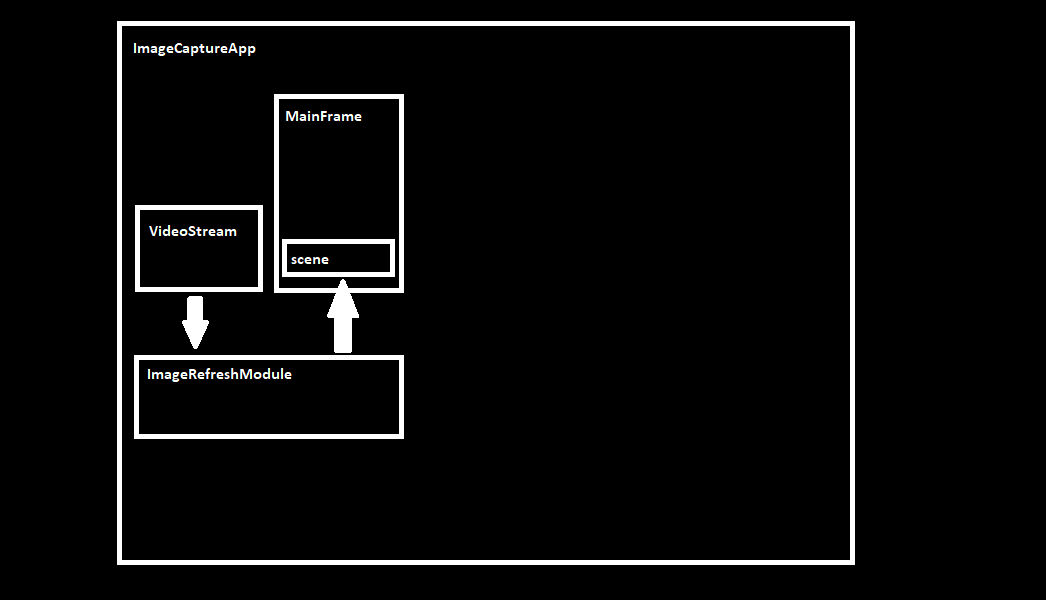
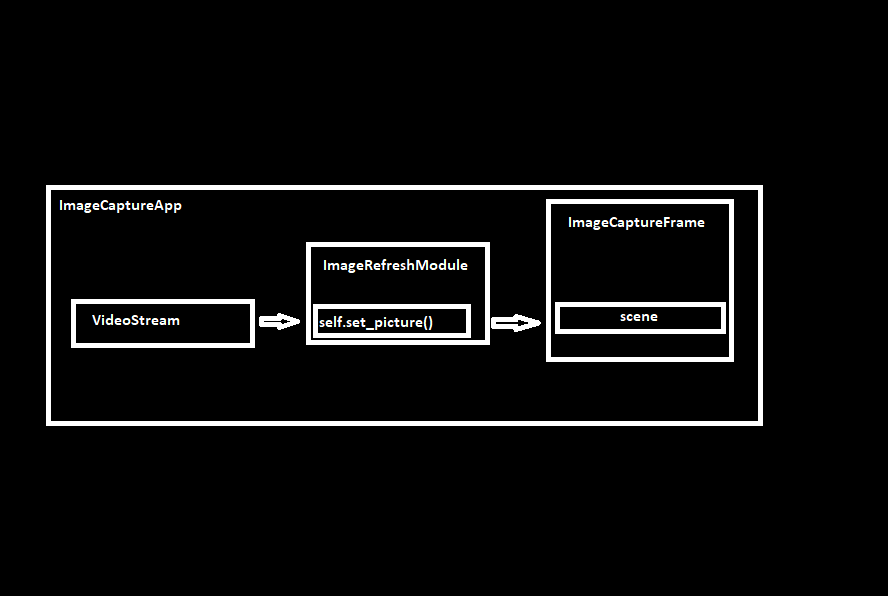
Minor commit. Added basic image saving method. Concept to be reworked in future.

Changed region(s): [[0.0304, 0.0302, 0.8818, 0.9664]]

diff --git a/gui/frames/ImageCaptureFrame.py b/gui/frames/ImageCaptureFrame.py
@@ -1,4 +1,6 @@
+from distutils.sysconfig import customize_compiler
 import math
+from PyQt5 import QtGui
 import cv2
 from PyQt5.QtCore import Qt
 from PyQt5.QtGui import QColor, QPainterPath, QPen, QPixmap, QImage
@@ -53,10 +55,23 @@ class NIPGraphicScene(QGraphicsScene):
         painter.drawPath(top_triangle)
 
 
-class ImageCaptureFrame(QMainWindow):
-    def __init__(self, parent=None, window_name=None):
-        super().__init__()
+class SaveImageButton(QPushButton):
+    def __init__(self,  custom_signals, pixmap_item):
+        super(SaveImageButton, self).__init__(text="Click Me")
+        self.custom_signals = custom_signals
+        self.pixmap_item = pixmap_item
+        
+    def mousePressEvent(self, e) -> None:
+        super().mousePressEvent(e)
+        self.pixmap_item.pixmap().save("test.jpg")
+        # self.custom_signals.save_picture.emit(self.pixmap)
+        print("Save Button clicked!")
 
+
+class ImageCaptureFrame(QMainWindow):
+    def __init__(self, parent=None, custom_signals=None):
+        super().__init__()
+        self.custom_signals = custom_signals
         self.setWindowTitle("QGraphicsView Example")
         self.setGeometry(0, 0, 600, 400)  # Set a larger initial window size
 
@@ -65,34 +80,31 @@ class ImageCaptureFrame(QMainWindow):
         layout = QGridLayout(self.central_widget)
 
         self.graphics_view = QGraphicsView()
-        self.scene = QGraphicsScene()
-
         self.graphics_view.setSceneRect(0, 0, 250, 250)  # Limit scene size to 250x250
-        
-        # Load an image using QPixmap
-        pixmap = QPixmap("img\\Debugempty.png")  # Replace with the actual image path
-        pixmap = pixmap.scaled(250, 250, Qt.KeepAspectRatio, Qt.SmoothTransformation) 
-        self.pixmap_item = QGraphicsPixmapItem(pixmap)
-        self.scene.addItem(self.pixmap_item)
-
-        self.scene.addRect(QRectF(0, 0, 250, 250))
-        self.graphics_view.setScene(self.scene)
-
         layout.addWidget(self.graphics_view, 0, 1, Qt.AlignTop | Qt.AlignLeft)  # Align in upper-left corner
         
+        self.scene = QGraphicsScene()
+        self.scene.addRect(QRectF(0, 0, 250, 250))
+        self.graphics_view.setScene(self.scene)
+        
+        pixmap = QPixmap("img\\Debugempty.png")
+        self.pixmap_item = QGraphicsPixmapItem(pixmap)
+        self.sized_pixmap = QGraphicsPixmapItem(pixmap.scaled(250, 250, Qt.KeepAspectRatio, Qt.SmoothTransformation))
+        self.scene.addItem(self.sized_pixmap)
+        
+        # Side Layout setup
         side_layout = QVBoxLayout()
+        layout.addLayout(side_layout, 0, 1, Qt.AlignTop | Qt.AlignCenter)  # Align in upper-right corner
 
         # Dropdown Menu
         self.dropdown = QComboBox()
-        self.dropdown.addItem("Option 1")
-        self.dropdown.addItem("Option 2")
+        self.dropdown.addItem("Camera 1")
+        self.dropdown.addItem("Camera 2")
         side_layout.addWidget(self.dropdown)
 
         # Button
-        self.button = QPushButton("Click Me")
+        self.button = SaveImageButton(custom_signals=self.custom_signals, pixmap_item=self.pixmap_item)
         side_layout.addWidget(self.button)
-
-        layout.addLayout(side_layout, 0, 1, Qt.AlignTop | Qt.AlignCenter)  # Align in upper-right corner
 
     def set_picture(self, picture):
         # picture = cv2.cvtColor(picture, cv2.COLOR_BGR2RGB)
@@ -102,11 +114,9 @@ class ImageCaptureFrame(QMainWindow):
         
         # create qpixmap from qimage
         pixmap = QPixmap.fromImage(qimage)
-        # pixmap = pixmap.scaled(250, 250, Qt.KeepAspectRatio, Qt.SmoothTransformation) 
+        self.pixmap_item.setPixmap(pixmap)
+        self.sized_pixmap.setPixmap(pixmap.scaled(250, 250, Qt.KeepAspectRatio, Qt.SmoothTransformation))
         # pixmap_item = QGraphicsPixmapItem(pixmap)
-        self.pixmap_item.setPixmap(pixmap) 
+        # self.sized_pixmap.setPixmap(self.sized_pixmap) 
         self.scene.update()
             
-
-
-

diff --git a/core/apps.py b/core/apps.py
@@ -1,16 +1,13 @@
 from PyQt5.QtGui import QPixmap
 from PyQt5.QtWidgets import QApplication
+from cv2 import cornerSubPix
 from gui.frames.ImageCaptureFrame import ImageCaptureFrame
-from utils.video import VideoStream
-import time
-import threading
-from PyQt5.QtGui import QColor, QPainterPath, QPen, QPixmap, QImage
+from utils.video import VideoStream, QPixmap, QImage
 from PyQt5.QtCore import Qt
-from PyQt5.QtCore import pyqtSignal, QObject
+from core.signals import CustomSignals
+from utils.CV2Module import CV2Module
 
-
-class CustomSignals(QObject):
-    frame_available = pyqtSignal(object)
+custom_signals = CustomSignals()
 
 
 class ImageRefreshModule:
@@ -25,37 +22,35 @@ class ImageRefreshModule:
                 frame = self.video_stream.read()
                 self.frame.set_picture(frame)
                 pass
-                # time.sleep(.1)
 
     def set_picture(self, picture):
         height, width, channel = picture.shape
         bytes_per_line = 3 * width
         qimage = QImage(picture.data, width, height, bytes_per_line, QImage.Format_RGB888)
         
+        self.frame.set_picture(picture)
         # create qpixmap from qimage
-        pixmap = QPixmap.fromImage(qimage)
-        pixmap = pixmap.scaled(250, 250, Qt.KeepAspectRatio, Qt.SmoothTransformation) 
-        self.frame.pixmap_item.setPixmap(pixmap)  # Update the pixmap in the QGraphicsPixmapItem
-        self.frame.scene.update()
+        #pixmap = QPixmap.fromImage(qimage)
+        #pixmap = pixmap.scaled(250, 250, Qt.KeepAspectRatio, Qt.SmoothTransformation) 
+        #self.frame.sized_pixmap.setPixmap(pixmap)  # Update the pixmap in the QGraphicsPixmapItem
+        #self.frame.scene.update()
                 
 
 class ImageCaptureApp:
     def __init__(self) -> None:
         app = QApplication([])
-        self.main_window = ImageCaptureFrame()
-        self.signals = CustomSignals()
-        self.vs = VideoStream(self.signals.frame_available, device=1).start()
+        self.main_window = ImageCaptureFrame(custom_signals=custom_signals)
+        self.vs = VideoStream(custom_signals.frame_available, device=0).start()
         self.image_refresh_module = ImageRefreshModule(self.main_window, self.vs)
+        self.cv2_module = CV2Module()
         
-        self.signals.frame_available.connect(self.image_refresh_module.set_picture)
-        
+        custom_signals.frame_available.connect(self.frame_update)
         
         self.main_window.show()
-        
-        # Start the refresh loop in a separate thread
-        # refresh_thread = threading.Thread(target=self.vs.update)
-        # refresh_thread.daemon = True  # This will allow the thread to exit when the main thread exits
-        # refresh_thread.start()
-
         app.exec_()          
+        
+    def frame_update(self, frame):
+        (corners, _, _) = self.cv2_module.detect_markers_on_frame(frame)
+        frame = self.cv2_module.colorize_markers_on_frame(frame=frame, corners=corners)
+        self.image_refresh_module.set_picture(frame)
         

diff --git a/utils/CV2Module.py b/utils/CV2Module.py
@@ -1,0 +1,27 @@
+import cv2
+
+
+class CV2Module:
+    def __init__(self) -> None:
+        self.dictionary = cv2.aruco.getPredefinedDictionary(cv2.aruco.DICT_ARUCO_ORIGINAL)
+        self.parameters = cv2.aruco.DetectorParameters()
+        self.detector = cv2.aruco.ArucoDetector(self.dictionary, self.parameters)
+        
+    def detect_markers_on_frame(self, frame):
+        (corners, ids, rejected) = self.detector.detectMarkers(frame)
+        return (corners, ids, rejected)
+        
+    def colorize_markers_on_frame(self, corners, frame):
+        for corner_set in corners:
+                # Draw lines around each detected marker
+                for i in range(4):
+                    start_point = tuple(map(int, corner_set[0][i]))
+                    end_point = tuple(map(int, corner_set[0][(i + 1) % 4]))
+                    color = (0, 255, 0)  # Green color for the lines
+                    thickness = 2
+                    frame = cv2.line(frame, start_point, end_point, color, thickness)
+        # frame = cv2.cvtColor(frame, cv2.COLOR_BGR2RGB)
+        return frame
+    
+    # def corect_histogram_on_frame(ids, corners, frame):
+      

diff --git a/utils/video.py b/utils/video.py
@@ -31,10 +31,12 @@ class VideoStream(QObject):  # Derive from QObject to use signals
             if not grabbed:
                 self.stop()
                 return
-
+            
+            frame = cv2.cvtColor(frame, cv2.COLOR_BGR2RGB)
             self.queue.put(frame)
-            self.queue.task_done()  # Mark the frame as processed
+            # self.queue.task_done()  # Mark the frame as processed
             self.refresh_signal.emit(self.read())  # Emit the frame through the signal
+            # print(f"Size of queue: {self.queue.qsize()}")
 
     def read(self):
         return self.queue.get()

diff --git a/core/signals.py b/core/signals.py
@@ -1,0 +1,7 @@
+from PyQt5.QtCore import pyqtSignal, QObject
+
+
+class CustomSignals(QObject):
+    frame_available = pyqtSignal(object)
+    save_picture = pyqtSignal(object)
+    
